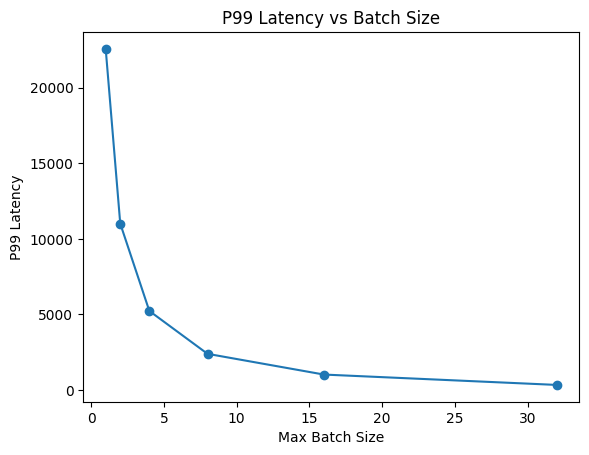
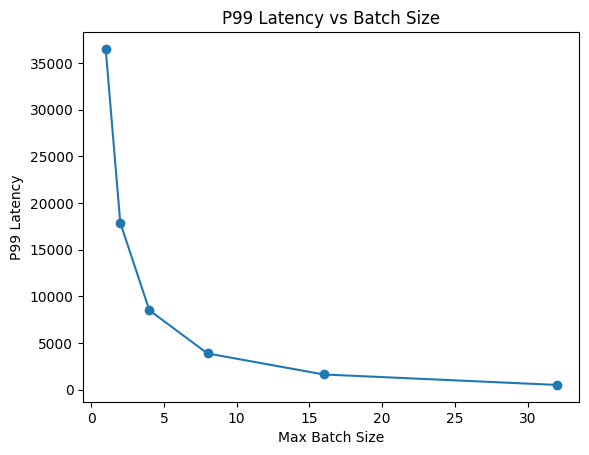
Added job size and priority into scheduling criteria and analyzed its impact on throughput and latency for various batch sizes. Added analysis into README

diff --git a/src/plot_scheduler_results.py b/src/plot_scheduler_results.py
@@ -1,40 +1,66 @@
-import os
-from pathlib import Path
-
-os.environ.setdefault("MPLCONFIGDIR", str(Path(__file__).resolve().parent / ".matplotlib"))
-
 import pandas as pd
-import matplotlib
-
-matplotlib.use("Agg")
 import matplotlib.pyplot as plt
 
 from scheduler_simulator import simulate
 
 
-SCRIPT_DIR = Path(__file__).resolve().parent
-RESULTS_DIR = SCRIPT_DIR.parent / "results"
-CHARTS_DIR = RESULTS_DIR / "charts"
+policies = ["fifo", "shortest_job_first", "priority"]
+batch_sizes = [1, 2, 4, 8, 16, 32]
 
-CHARTS_DIR.mkdir(parents=True, exist_ok=True)
+rows = []
+for policy in policies:
+    for batch_size in batch_sizes:
+        rows.append(simulate(max_batch_size=batch_size, policy=policy))
 
-rows = [simulate(batch_size) for batch_size in [1, 2, 4, 8, 16, 32]]
 df = pd.DataFrame(rows)
-
 print(df)
 
-df.to_csv(RESULTS_DIR / "scheduler_results.csv", index=False)
+df.to_csv("results/scheduler_results.csv", index=False)
 
 plt.figure()
-plt.plot(df["batch_size"], df["throughput_reqs_per_step"], marker="o")
+for policy in policies:
+    subset = df[df["policy"] == policy]
+    plt.plot(
+        subset["batch_size"],
+        subset["throughput_reqs_per_step"],
+        marker="o",
+        label=policy,
+    )
+
 plt.xlabel("Max Batch Size")
 plt.ylabel("Throughput: Requests / Step")
-plt.title("Throughput vs Batch Size")
-plt.savefig(CHARTS_DIR / "throughput_vs_batch_size.png", bbox_inches="tight")
+plt.title("Throughput vs Batch Size by Scheduling Policy")
+plt.legend()
+plt.savefig("results/charts/throughput_by_policy.png", bbox_inches="tight")
 
 plt.figure()
-plt.plot(df["batch_size"], df["p99_latency"], marker="o")
+for policy in policies:
+    subset = df[df["policy"] == policy]
+    plt.plot(
+        subset["batch_size"],
+        subset["p99_latency"],
+        marker="o",
+        label=policy,
+    )
+
 plt.xlabel("Max Batch Size")
 plt.ylabel("P99 Latency")
-plt.title("P99 Latency vs Batch Size")
-plt.savefig(CHARTS_DIR / "p99_latency_vs_batch_size.png", bbox_inches="tight")
+plt.title("P99 Latency vs Batch Size by Scheduling Policy")
+plt.legend()
+plt.savefig("results/charts/p99_latency_by_policy.png", bbox_inches="tight")
+
+plt.figure()
+for policy in policies:
+    subset = df[df["policy"] == policy]
+    plt.plot(
+        subset["batch_size"],
+        subset["avg_wait_time"],
+        marker="o",
+        label=policy,
+    )
+
+plt.xlabel("Max Batch Size")
+plt.ylabel("Average Wait Time")
+plt.title("Average Wait Time vs Batch Size by Scheduling Policy")
+plt.legend()
+plt.savefig("results/charts/wait_time_by_policy.png", bbox_inches="tight")

diff --git a/src/scheduler_simulator.py b/src/scheduler_simulator.py
@@ -1,6 +1,7 @@
+from __future__ import annotations
+
 from dataclasses import dataclass
 from collections import deque
-from typing import Optional
 import random
 import statistics
 
@@ -12,11 +13,12 @@ class Request:
     prompt_tokens: int
     output_tokens: int
     remaining_tokens: int
-    start_time: Optional[int] = None
-    finish_time: Optional[int] = None
+    priority: int
+    start_time: int | None = None
+    finish_time: int | None = None
 
 
-def generate_requests(n=200, seed=42):
+def generate_requests(n=300, seed=42):
     random.seed(seed)
     requests = []
     time = 0
@@ -29,16 +31,34 @@ def generate_requests(n=200, seed=42):
             Request(
                 id=i,
                 arrival_time=time,
-                prompt_tokens=random.choice([64, 128, 512, 1024]),
+                prompt_tokens=random.choice([64, 128, 512, 1024, 2048]),
                 output_tokens=output_tokens,
                 remaining_tokens=output_tokens,
+                priority=random.choice([1, 2, 3]),  # 3 = highest priority
             )
         )
 
     return requests
 
 
-def simulate(max_batch_size: int):
+def pick_next_request(waiting, policy):
+    if policy == "fifo":
+        return waiting.popleft()
+
+    if policy == "shortest_job_first":
+        best = min(waiting, key=lambda r: r.output_tokens)
+        waiting.remove(best)
+        return best
+
+    if policy == "priority":
+        best = max(waiting, key=lambda r: r.priority)
+        waiting.remove(best)
+        return best
+
+    raise ValueError(f"Unknown policy: {policy}")
+
+
+def simulate(max_batch_size: int, policy: str = "fifo"):
     pending = deque(generate_requests())
     waiting = deque()
     running = []
@@ -50,13 +70,14 @@ def simulate(max_batch_size: int):
             waiting.append(pending.popleft())
 
         while waiting and len(running) < max_batch_size:
-            req = waiting.popleft()
+            req = pick_next_request(waiting, policy)
             req.start_time = time
             running.append(req)
 
         next_running = []
         for req in running:
             req.remaining_tokens -= 1
+
             if req.remaining_tokens == 0:
                 req.finish_time = time
                 finished.append(req)
@@ -67,18 +88,25 @@ def simulate(max_batch_size: int):
         time += 1
 
     latencies = [r.finish_time - r.arrival_time for r in finished]
+    wait_times = [r.start_time - r.arrival_time for r in finished]
 
     return {
+        "policy": policy,
         "batch_size": max_batch_size,
         "completed": len(finished),
         "avg_latency": round(statistics.mean(latencies), 2),
         "p95_latency": round(statistics.quantiles(latencies, n=20)[18], 2),
         "p99_latency": round(statistics.quantiles(latencies, n=100)[98], 2),
+        "avg_wait_time": round(statistics.mean(wait_times), 2),
         "total_time": time,
         "throughput_reqs_per_step": round(len(finished) / time, 4),
     }
 
 
 if __name__ == "__main__":
-    for batch_size in [1, 2, 4, 8, 16, 32]:
-        print(simulate(batch_size))
+    policies = ["fifo", "shortest_job_first", "priority"]
+
+    for policy in policies:
+        print(f"\nPolicy: {policy}")
+        for batch_size in [1, 2, 4, 8, 16, 32]:
+            print(simulate(batch_size, policy))

diff --git a/README.md b/README.md
@@ -20,6 +20,47 @@ This repo starts with a scheduler simulator inspired by continuous batching syst
 - Throughput measurement
 - p95 / p99 latency measurement
 - Charts for throughput and tail latency
+- Scheduling policies and its effects of throughput/latency for different batch sizes
+
+# Findings
+
+## 1. Larger batches improve throughput
+
+As batch size increases, throughput improves significantly because more requests are processed concurrently.
+
+This mirrors production LLM serving systems such as vLLM, where continuous batching improves GPU utilization.
+
+## 2. Tail latency increases with aggressive batching
+
+While throughput improves, p99 latency and wait time can also increase under larger batch sizes.
+
+This demonstrates the core production tradeoff in LLM inference systems:
+
+- maximizing GPU utilization
+vs
+- maintaining low tail latency
+
+## 3. Scheduling policy impacts fairness and latency
+
+Different scheduling policies produce different latency characteristics.
+
+### FIFO
+- simple and fair
+- can suffer from head-of-line blocking
+
+### Shortest Job First
+- improves average latency
+- risks starving large requests
+
+### Priority Scheduling
+- useful for latency-sensitive workloads
+- lower-priority requests may wait longer
+
+## 4. Continuous batching requires careful scheduler policy
+
+The simulator demonstrates why scheduler design is a critical component of large-scale inference systems.
+
+Aggressive batching policies improve utilization but may negatively impact p95/p99 latency under bursty workloads.
 
 ## How to run
 